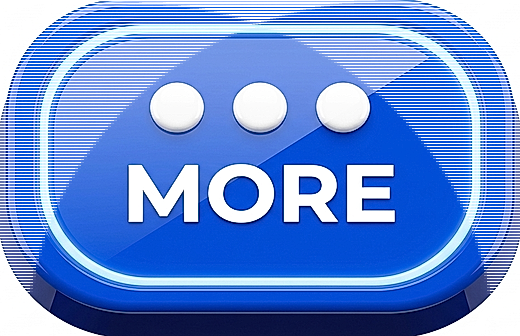
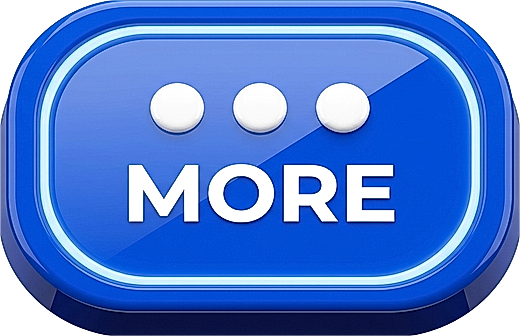
style: adjust UI element positioning and padding
Adjust the vertical alignment and padding for the main menu elements to improve layout consistency.

diff --git a/src/components/MainMenu.tsx b/src/components/MainMenu.tsx
@@ -528,33 +528,33 @@ export function MainMenu({ onPlay, onSkins, onSettings, onSeason }: MainMenuProp
       <div 
         className={`absolute left-1/2 -translate-x-1/2 z-20 w-full max-w-[460px] sm:max-w-[520px] md:max-w-[560px] px-2 pointer-events-none transition-all duration-300 ease-out ${
           isMoreOpen && !isEditingHud 
-            ? 'top-[52%] sm:top-[54%]' 
-            : 'top-[56%] sm:top-[58%]'
+            ? 'top-[50%] sm:top-[52%]' 
+            : 'top-[53%] sm:top-[55%]'
         }`}
       >
         {/* UPPER STACK (LOGO + BIGGER SKIN BUTTON + NICKNAME) - Grows upward above center */}
-        <div className="absolute bottom-full left-0 right-0 pb-1 sm:pb-1.5 flex flex-col items-center pointer-events-none">
+        <div className="absolute bottom-full left-0 right-0 pb-1.5 sm:pb-2 flex flex-col items-center pointer-events-none">
           {/* LOGO */}
           {renderEditableItem(
             'logo',
-            <h1 className={`font-black tracking-wide leading-none translate-y-1 sm:translate-y-1.5 mb-0.5 pointer-events-auto transition-all duration-300 ease-out ${
+            <h1 className={`font-black tracking-wide mb-0.5 pointer-events-auto transition-all duration-300 ease-out ${
               isMoreOpen && !isEditingHud ? 'text-2xl sm:text-3xl' : 'text-3xl sm:text-4xl'
             }`}>
               <span className="text-slate-800">Dasgar</span>
               <span className="text-[#22c55e]">.io</span>
             </h1>,
-            'pointer-events-auto z-10'
+            'pointer-events-auto'
           )}
 
           {/* AVATAR (SKIN BUTTON) + BADGES - Larger size without pushing action buttons down */}
           {renderEditableItem(
             'avatar',
             <TouchSafeButton 
-              className="relative group hud-tap pointer-events-auto transition-all duration-300 ease-out my-0.5"
+              className="relative group hud-tap pointer-events-auto transition-all duration-300 ease-out my-1"
               onClick={isEditingHud ? undefined : onSkins}
             >
               <div className={`rounded-full bg-slate-200 border-4 border-[#22c55e] shadow-md flex items-center justify-center pointer-events-none overflow-hidden relative transition-all duration-300 ease-out ${
-                isMoreOpen && !isEditingHud ? 'w-20 h-20 sm:w-22 sm:h-22' : 'w-24 h-24 sm:w-28 sm:h-28 md:w-32 md:h-32'
+                isMoreOpen && !isEditingHud ? 'w-20 h-20 sm:w-24 sm:h-24' : 'w-24 h-24 sm:w-28 sm:h-28 md:w-32 md:h-32'
               }`}>
                 {equippedSkinSvg ? (
                   <img 
